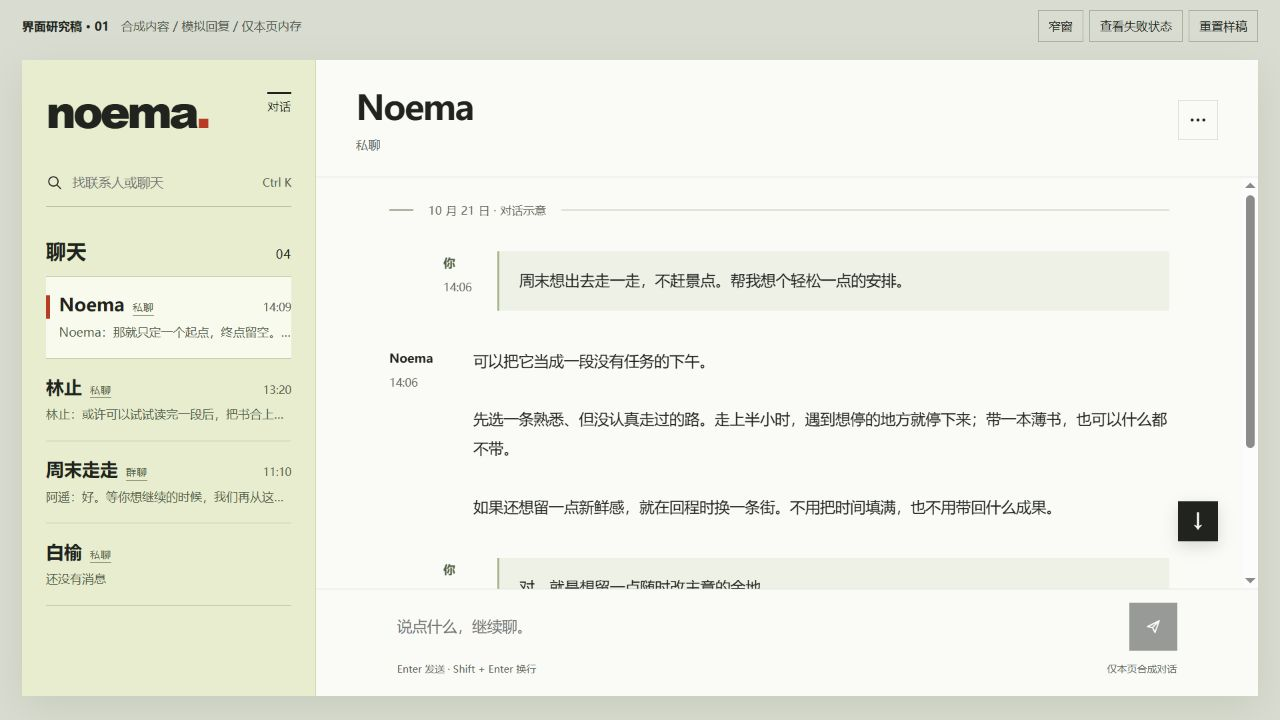
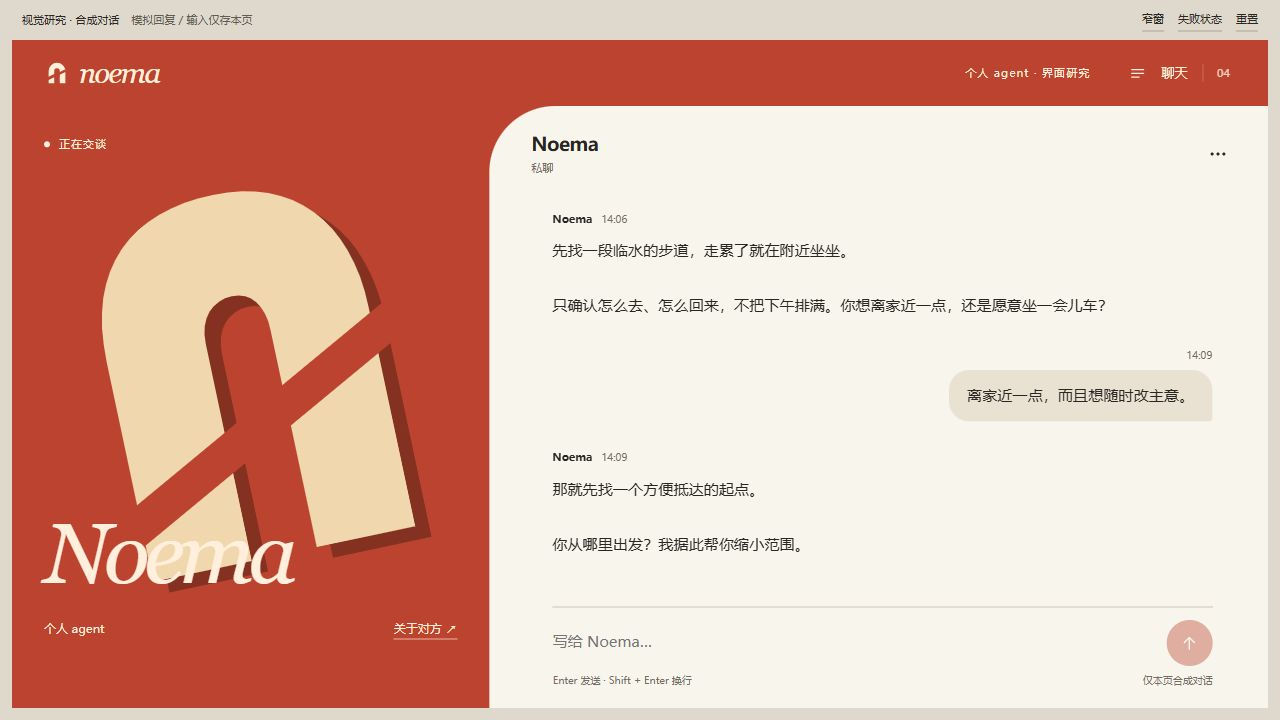
Recompose chat study around identity and folded graphics

diff --git a/docs/design/prototypes/conversation-study.html b/docs/design/prototypes/conversation-study.html
@@ -3,71 +3,56 @@
 <head>
 <meta charset="utf-8">
 <meta name="viewport" content="width=device-width,initial-scale=1">
-<title>Noema · 通信界面研究稿</title>
+<title>Noema · 交谈界面研究</title>
 <style>
-:root{color-scheme:light;--ink:#20231e;--muted:#62675c;--line:#d9ddd1;--ground:#fafbf7;--index:#e7edce;--accent:#b83c23;--quiet:#eef1e6;--focus:#a3301d}
-*{box-sizing:border-box}body{margin:0;background:#d9ddd1;color:var(--ink);font-family:"Segoe UI Variable Text","Microsoft YaHei UI","Microsoft YaHei",sans-serif;font-size:15px}button,input,textarea,select{font:inherit;color:inherit}button{cursor:pointer}button:disabled{cursor:default;opacity:.45}button:focus-visible,input:focus-visible,textarea:focus-visible,select:focus-visible,summary:focus-visible{outline:3px solid var(--focus);outline-offset:3px}button{touch-action:manipulation}svg{width:20px;height:20px;fill:none;stroke:currentColor;stroke-width:1.6;stroke-linecap:round;stroke-linejoin:round;flex:none}[hidden]{display:none!important}
-.review-bar{min-height:52px;max-width:1360px;margin:auto;padding:10px 22px;display:flex;align-items:center;justify-content:space-between;gap:16px;font-size:12px}.review-bar strong{font-weight:650}.review-bar span{color:#515749;margin-left:12px}.review-actions{display:flex;gap:6px;flex-wrap:wrap}.review-actions button{border:1px solid #9da58f;background:transparent;min-height:32px;padding:4px 10px}.review-actions button[aria-pressed=true]{background:var(--ink);color:white}
-.preview-stage{width:calc(100% - 44px);max-width:1316px;margin:8px auto 20px;transition:width 180ms ease}.preview-stage.is-narrow{width:min(440px,calc(100% - 24px))}.app-frame{container-type:inline-size;height:calc(100dvh - 84px);min-height:430px;background:var(--ground);box-shadow:0 12px 40px #252d151a}.workspace{height:100%;display:grid;grid-template-columns:294px minmax(0,1fr);position:relative;overflow:hidden}
-.sidebar{display:flex;flex-direction:column;background:var(--index);padding:28px 24px 24px;min-height:0;border-right:1px solid #cdd4b6}.brand{display:flex;align-items:flex-start;justify-content:space-between;margin-bottom:30px}.wordmark{font-family:Arial,sans-serif;font-size:45px;line-height:1;letter-spacing:-3px;font-weight:800}.brand-dot{color:var(--accent)}.edition{font-size:11px;border-top:2px solid var(--ink);padding-top:5px;letter-spacing:.08em;margin-top:4px}
-.search{display:flex;align-items:center;gap:9px;border-bottom:1px solid #aeb79b;padding:8px 0 12px}.search svg{width:17px;height:17px}.search input{width:100%;min-width:0;background:none;border:0;outline-offset:5px;font-size:13px;padding:3px 0}.search kbd{font-size:11px;font-family:inherit;white-space:nowrap;color:#566048}
-.index-label{display:flex;justify-content:space-between;align-items:baseline;margin:32px 0 12px;font-size:12px;letter-spacing:.06em}.index-label strong{font-size:20px;font-weight:550;letter-spacing:.02em}.room-list{overflow:auto;margin:0 -8px;padding:0 8px;min-height:0}.room{display:block;width:100%;text-align:left;border:0;border-top:1px solid #bdc6aa;background:transparent;padding:17px 0;position:relative}.room:last-child{border-bottom:1px solid #bdc6aa}.room:hover{background:#ffffff40}.room[aria-current=page]{padding-left:13px;background:#f8faee}.room[aria-current=page]:before{content:"";position:absolute;left:0;top:19px;width:4px;height:23px;background:var(--accent)}.room-top{display:flex;align-items:baseline;gap:8px}.room-name{font-size:18px;font-weight:600;overflow:hidden;text-overflow:ellipsis;white-space:nowrap}.room-time{margin-left:auto;font-size:11px;white-space:nowrap;color:#58614e}.room-description{display:block;font-size:12px;margin:7px 0 0;color:#535c48;white-space:nowrap;overflow:hidden;text-overflow:ellipsis;line-height:1.5}.draft-label{color:var(--accent);font-weight:650}.room-kind{font-size:10px;letter-spacing:.06em;border-bottom:1px solid #7a8468;padding-bottom:1px;color:#536044}.index-empty{font-size:13px;line-height:1.8;color:#536044}.sidebar-foot{margin-top:auto;padding-top:28px;display:flex;justify-content:space-between;gap:10px;font-size:11px;color:#59624d}.sidebar-foot b{font-weight:500;letter-spacing:.05em}
-.conversation{display:grid;grid-template-rows:auto minmax(0,1fr) auto;min-height:0;min-width:0;background:var(--ground);position:relative}.conversation-head{display:flex;align-items:center;justify-content:space-between;gap:20px;padding:28px 40px 24px;border-bottom:1px solid var(--line)}.title-row{display:flex;align-items:center;gap:12px;min-width:0}.room-title{font-size:34px;line-height:1.15;letter-spacing:-.04em;font-weight:560;margin:0;overflow:hidden;text-overflow:ellipsis;white-space:nowrap}.room-subtitle{font-size:12px;color:var(--muted);margin:10px 0 0;letter-spacing:.03em}.head-actions{display:flex;align-items:center;gap:12px}.room-type{font-size:11px;border-bottom:1px solid #b6bca9;padding-bottom:5px;white-space:nowrap}.icon-button{display:inline-flex;align-items:center;justify-content:center;width:40px;height:40px;background:transparent;border:1px solid var(--line);flex:none}.icon-button:hover{background:var(--quiet)}.back{display:none}
-.history{min-height:0;overflow:auto;scrollbar-gutter:stable;padding:26px 40px 12px;overscroll-behavior:contain}.history-inner{max-width:780px;margin:auto}.day-divider{display:flex;align-items:center;gap:15px;font-size:11px;color:var(--muted);letter-spacing:.04em;margin:0 0 34px}.day-divider:before{content:"";width:24px;height:1px;background:#959e86}.day-divider:after{content:"";flex:1;height:1px;background:var(--line)}.message{display:grid;grid-template-columns:64px minmax(0,1fr);gap:20px;margin:0 0 36px;min-width:0}.message-gutter{padding-top:3px;font-size:11px;line-height:1.5;color:var(--muted);min-width:0}.sender{font-weight:650;display:block;white-space:nowrap;overflow:hidden;text-overflow:ellipsis;color:var(--ink);font-size:12px}.message time{display:block;margin-top:7px;font-variant-numeric:tabular-nums;font-size:11px}.message-body{min-width:0;position:relative}.message-copy{font-size:15px;line-height:1.95;white-space:pre-wrap;overflow-wrap:anywhere;letter-spacing:.005em}.message.is-user{margin-left:54px;grid-template-columns:34px minmax(0,1fr)}.is-user .message-copy{background:var(--quiet);padding:15px 20px;border-left:2px solid #a8b58e}.is-user .sender{color:#536144}.message-actions{position:absolute;right:0;bottom:-32px;display:flex;gap:15px;justify-content:flex-end;opacity:0;transition:opacity 120ms}.message:hover .message-actions,.message:focus-within .message-actions{opacity:1}.text-action{background:none;border:0;padding:5px 2px;min-height:30px;font-size:11px;color:var(--muted);text-decoration:underline;text-underline-offset:4px}.text-action:hover{color:var(--accent)}.quote{font-size:12px;line-height:1.65;border-left:2px solid #a4ad96;margin-bottom:10px;padding:4px 12px;color:var(--muted);max-height:70px;overflow:hidden}.quote b{display:block;font-weight:600}.message-state{display:flex;gap:12px;align-items:center;margin-top:12px;font-size:12px;color:var(--muted);line-height:1.6}.message-state.is-error{color:#a52c1b}.message-state .text-action{color:inherit;font-size:12px}.streaming:after{content:"";display:inline-block;width:6px;height:16px;background:var(--accent);margin-left:5px;vertical-align:-2px;animation:pulse 1s infinite}.empty-state{padding:65px 0;max-width:440px;margin:auto}.empty-state .empty-name{font-size:45px;font-weight:500;letter-spacing:-.04em;margin:0 0 25px}.empty-state p{font-size:14px;color:var(--muted);line-height:1.9;margin:0}.new-messages{position:absolute;right:40px;bottom:155px;background:var(--ink);color:white;border:0;padding:0;width:40px;height:40px;font-size:20px;box-shadow:0 5px 15px #0002}
-.composer-area{padding:12px 40px 21px;background:var(--ground);border-top:1px solid var(--line)}.composer-wrap{max-width:780px;margin:auto}.replying{display:flex;gap:12px;align-items:center;border-left:2px solid var(--accent);padding:6px 0 6px 13px;margin-bottom:12px;font-size:12px;line-height:1.6}.replying-text{min-width:0;flex:1;white-space:nowrap;overflow:hidden;text-overflow:ellipsis;color:var(--muted)}.replying-text strong{color:var(--ink);display:block}.replying .icon-button{width:32px;height:32px;border:0}.compose-row{display:flex;gap:18px;align-items:flex-end}.compose-row textarea{resize:none;flex:1;min-width:0;max-height:160px;min-height:52px;background:transparent;border:0;padding:12px 0;font-size:15px;line-height:1.8;outline-offset:5px}.send-button{width:48px;height:48px;display:flex;align-items:center;justify-content:center;background:var(--ink);color:var(--ground);border:0;flex:none;margin-bottom:3px}.send-button:hover:not(:disabled){background:var(--accent)}.send-button.is-stop{background:var(--accent)}.stop-shape{display:block;width:13px;height:13px;background:currentColor}.composer-foot{display:flex;justify-content:space-between;align-items:center;gap:10px;padding-top:9px;font-size:10px;color:var(--muted)}.recipient{display:flex;align-items:center;gap:8px;font-size:11px}.recipient select{background:transparent;border:0;border-bottom:1px solid #acb59c;padding:2px 16px 3px 0;font-size:11px}.notice{font-size:12px;padding:9px 0;color:var(--accent);line-height:1.6}.visually-hidden{position:absolute;width:1px;height:1px;overflow:hidden;clip-path:inset(50%);white-space:nowrap}
-.workspace:has(.details-panel:not([hidden])):before{content:"";position:absolute;inset:0;z-index:2;background:#20231e1f}.details-panel{position:absolute;right:0;top:0;bottom:0;width:min(330px,100%);background:var(--ground);border-left:1px solid var(--line);padding:28px 25px;z-index:3;box-shadow:-20px 0 45px #2233110c;overflow:auto}.details-heading{display:flex;align-items:center;justify-content:space-between;gap:12px;margin-bottom:34px}.details-heading h2{font-size:20px;font-weight:550;margin:0}.details-panel p{font-size:13px;line-height:1.9;color:var(--muted)}.person{padding:18px 0;border-top:1px solid var(--line);font-size:15px}.person small{display:block;font-size:11px;margin-top:7px;color:var(--muted)}
-@keyframes pulse{50%{opacity:.25}}
-@container (max-width:760px){.workspace{grid-template-columns:1fr}.workspace[data-view=chat] .sidebar{display:none}.workspace[data-view=list] .conversation{display:none}.sidebar{padding:28px;border:0}.room{padding-top:20px;padding-bottom:20px}.conversation-head{padding:24px 20px 21px;gap:12px}.title-row{gap:12px}.room-title{font-size:28px}.back{display:inline-flex;border:0;width:28px;height:40px;margin-left:-6px}.room-type{display:none}.head-actions{gap:0}.history{padding:24px 20px 10px}.message{grid-template-columns:54px minmax(0,1fr);gap:12px;margin-bottom:38px}.message.is-user{margin-left:22px;grid-template-columns:28px minmax(0,1fr)}.message-copy{font-size:15px;line-height:1.85}.is-user .message-copy{padding:12px 15px}.composer-area{padding:11px 20px 18px}.composer-foot{font-size:11px}.compose-row{gap:12px}.compose-row textarea{font-size:15px}.send-button{width:44px;height:44px}.new-messages{right:20px;bottom:150px}.day-divider{margin-bottom:28px}.room-subtitle{margin-top:8px}.details-panel{width:100%}}
-@media(max-width:650px){.review-bar{padding:8px 12px;gap:8px}.review-bar span{display:none}.review-actions{gap:4px}.review-actions button{font-size:10px;padding:4px 6px}.preview-stage{width:calc(100% - 24px);margin-top:0}.app-frame{height:calc(100dvh - 68px);min-height:390px}}
-@media(hover:none){.message{margin-bottom:48px}.message-actions{opacity:1}.text-action{min-height:40px}.icon-button{min-height:44px}}
+:root{color-scheme:light;--ink:#292521;--muted:#736c63;--line:#ded9cf;--ground:#f8f5ed;--accent:#b63c28;--quiet:#eee9dd;--focus:#213fd4;--clay:#bc432f;--cream:#f1d7ad}
+*{box-sizing:border-box}[hidden]{display:none!important}body{height:100dvh;display:flex;flex-direction:column;margin:0;background:#ded8cd;color:var(--ink);font:15px/1.5 "Segoe UI Variable Text","Microsoft YaHei UI",sans-serif}button,input,textarea,select{font:inherit;color:inherit}button{cursor:pointer;touch-action:manipulation}button:disabled{opacity:.4;cursor:default}button:focus-visible,input:focus-visible,textarea:focus-visible,select:focus-visible{outline:3px solid var(--focus);outline-offset:4px}svg{width:20px;height:20px;fill:none;stroke:currentColor;stroke-width:1.6;stroke-linecap:round;stroke-linejoin:round;flex:none}button{background:none;border:0}button:hover:not(:disabled){filter:brightness(.9)}
+.review-bar{flex:0 0 40px;height:40px;display:flex;align-items:center;justify-content:space-between;gap:12px;padding:0 22px;font-size:11px}.review-bar strong{font-weight:500}.review-bar span{margin-left:12px;color:#625b51}.review-actions{display:flex;gap:14px}.review-actions button{padding:3px 0;border-bottom:1px solid #958a78;font-size:11px}.review-actions button[aria-pressed=true]{color:var(--accent);border-color:currentColor}.preview-stage{flex:1;min-height:0;width:calc(100% - 24px);max-width:1600px;margin:0 auto 12px}.preview-stage.is-narrow{width:min(430px,calc(100% - 24px))}.app-frame{container-type:inline-size;height:100%;background:var(--clay)}
+.workspace{position:relative;isolation:isolate;height:100%;display:grid;grid-template-columns:minmax(280px,.38fr) minmax(0,.62fr);grid-template-rows:66px minmax(0,1fr);overflow:hidden}.masthead{grid-column:1/-1;display:flex;align-items:center;justify-content:space-between;padding:0 32px;color:#fff0dc;z-index:2}.brand{display:flex;align-items:center;gap:9px}.brand-symbol{width:26px;height:26px;fill:currentColor;stroke:none}.brand-name{font:italic 29px Georgia,serif;letter-spacing:-1.6px}.list-trigger{min-height:42px;display:flex;gap:15px;align-items:center;font-size:13px;color:inherit}.list-trigger .count{font-size:11px;opacity:.8;border-left:1px solid #f1d7ad88;padding-left:14px}.list-trigger svg{width:18px}.masthead-note{font-size:11px;color:#ffefdc;letter-spacing:.1em;margin-left:auto;margin-right:32px}
+.identity{position:relative;min-width:0;overflow:hidden;display:flex;flex-direction:column;justify-content:space-between;padding:30px 32px 32px;color:#ffefdc}.identity-kicker{display:flex;align-items:center;gap:9px;font-size:11px;letter-spacing:.09em}.identity-kicker:before{content:"";width:6px;height:6px;background:currentColor;border-radius:50%}.portrait{width:calc(100% + 70px);height:calc(100% - 110px);position:absolute;top:45px;left:-35px;pointer-events:none;overflow:visible;stroke:none;fill:none}.portrait .ribbon{fill:var(--cream)}.portrait .underside{fill:#843121}.portrait .cut{fill:var(--clay)}.identity-name{font:italic clamp(54px,6.8cqw,102px)/1 Georgia,"STSong","SimSun",serif;letter-spacing:-.065em;overflow-wrap:anywhere;margin:0 0 16px;position:relative}.identity-kind{font-size:12px;display:flex;justify-content:space-between;align-items:center;color:#ffefdc}.identity-kind button{color:inherit;padding:4px 0;text-decoration:underline;text-underline-offset:5px;min-height:32px;font-size:12px}.identity-bottom{position:relative}.identity-state{font-size:12px;letter-spacing:0;padding-top:12px;min-height:31px;color:#ffefdc}.identity[data-streaming=true] .portrait{animation:reply-mark 2s ease-in-out infinite}.identity[data-streaming=true] .identity-kicker:before{animation:blink 1s ease-in-out infinite}
+.conversation{background:var(--ground);border-radius:66px 0 0 0;display:grid;grid-template-rows:auto minmax(0,1fr) auto;position:relative;min-width:0;min-height:0}.conversation-head{padding:26px 30px 16px 42px;display:flex;align-items:center;justify-content:space-between;gap:15px}.title-row{min-width:0}.room-title{font-size:19px;font-weight:600;letter-spacing:-.025em;line-height:1.2;margin:0;overflow:hidden;white-space:nowrap;text-overflow:ellipsis}.room-subtitle{font-size:11px;color:var(--muted);margin:5px 0 0}.icon-button{width:40px;height:40px;display:inline-flex;align-items:center;justify-content:center;flex:none;border-radius:50%}.icon-button:hover{background:#e9e4d8}.history{overflow:auto;overscroll-behavior:contain;min-height:0;padding:12px 34px 20px 42px;scrollbar-width:thin;scrollbar-color:#c9c0af transparent}.history-inner{max-width:660px;margin:0 auto}.day-divider{text-align:center;font-size:10px;color:var(--muted);margin:0 0 28px;letter-spacing:.06em}.message{position:relative;margin:0 0 28px;padding:0;min-width:0}.message-gutter{display:flex;align-items:baseline;gap:9px;font-size:10px;line-height:1.5;color:var(--muted);margin-bottom:9px}.sender{font-weight:650;font-size:11px;color:var(--ink)}.message time{font-variant-numeric:tabular-nums}.message-body{position:relative;min-width:0}.message-copy{font-size:15px;line-height:1.85;white-space:pre-wrap;overflow-wrap:anywhere;letter-spacing:.01em}.message.is-user{margin-left:48px;display:flex;flex-direction:column;align-items:flex-end}.is-user .message-gutter{justify-content:flex-end;margin-bottom:7px}.is-user .message-body{max-width:100%}.is-user .message-copy{background:#e9e2d3;padding:12px 18px;border-radius:20px 20px 3px 20px}.is-user .sender{display:none}.message-actions{position:absolute;right:0;bottom:-26px;display:flex;gap:15px;opacity:0}.message:hover .message-actions,.message:focus-within .message-actions{opacity:1}.text-action{font-size:11px;padding:3px 0;min-height:26px;color:var(--muted);text-decoration:underline;text-underline-offset:4px}.quote{border-left:2px solid #b7ac96;font-size:12px;line-height:1.6;color:var(--muted);padding:4px 12px;margin-bottom:10px;max-height:70px;overflow:hidden}.quote b{display:block}.message-state{margin-top:10px;font-size:12px;line-height:1.6;display:flex;gap:12px;align-items:center;color:var(--muted)}.message-state.is-error{color:#a63323}.message-state .text-action{color:inherit}.streaming:after{content:"";display:inline-block;width:5px;height:14px;vertical-align:-2px;background:var(--clay);margin-left:4px;animation:blink 1s infinite}.empty-state{padding:50px 0 30px;max-width:380px}.empty-name{font-size:32px;font-weight:500;letter-spacing:-.05em;margin:0 0 20px}.empty-state p{font-size:14px;line-height:1.9;color:var(--muted)}.new-messages{position:absolute;bottom:147px;right:28px;border-radius:50%;width:38px;height:38px;background:var(--ink);color:#fff;font-size:20px;z-index:1}
+.composer-area{padding:0 34px 20px 42px}.composer-wrap{max-width:660px;margin:0 auto}.compose-row{border-top:1px solid #b7ac96;display:flex;gap:12px;align-items:flex-end;padding:13px 0 0}.compose-row textarea{resize:none;flex:1;min-width:0;min-height:45px;max-height:150px;background:none;border:0;padding:8px 0 10px;font-size:15px;line-height:1.7;outline-offset:3px}.send-button{width:46px;height:46px;display:flex;align-items:center;justify-content:center;border-radius:50%;background:var(--clay);color:#fff6e7;flex:none}.send-button.is-stop{background:var(--ink)}.stop-shape{width:12px;height:12px;background:currentColor}.composer-foot{display:flex;align-items:center;justify-content:space-between;gap:8px;font-size:10px;color:var(--muted);padding-top:7px}.recipient{font-size:11px;display:flex;gap:5px}.recipient select{border:0;border-bottom:1px solid #baae96;background:none;padding:0 12px 2px 0;font-size:11px}.replying{border-left:2px solid var(--clay);display:flex;align-items:center;gap:12px;padding:5px 0 5px 12px;margin-bottom:10px;font-size:12px}.replying-text{flex:1;min-width:0;overflow:hidden;white-space:nowrap;text-overflow:ellipsis;color:var(--muted)}.replying-text strong{display:block;color:var(--ink)}.notice{font-size:12px;color:var(--accent);padding:8px 0}.visually-hidden{position:absolute;width:1px;height:1px;overflow:hidden;clip-path:inset(50%);white-space:nowrap}
+.sidebar{display:none;position:absolute;inset:12px auto 12px 12px;width:min(390px,calc(100% - 24px));background:var(--ground);padding:28px;z-index:5;border-radius:8px 40px 8px 8px;flex-direction:column;min-height:0;box-shadow:12px 12px 0 #61271e33}.workspace[data-view=list]:before,.workspace:has(.details-panel:not([hidden])):before{content:"";position:absolute;inset:0;background:#35281d66;z-index:4}.workspace[data-view=list] .sidebar{display:flex}.index-heading{display:flex;align-items:center;justify-content:space-between;margin-bottom:28px}.index-heading h2{margin:0;font-size:25px;font-weight:500;letter-spacing:-.05em}.search{display:flex;align-items:center;gap:10px;border-bottom:1px solid #b8ad98;padding-bottom:11px}.search svg{width:17px}.search input{min-width:0;width:100%;background:none;border:0;padding:4px 0;font-size:13px}.search kbd{font:inherit;font-size:10px;color:var(--muted);white-space:nowrap}.index-label{display:flex;justify-content:space-between;margin:27px 0 12px;font-size:11px;color:var(--muted)}.room-list{overflow:auto;min-height:0}.room{display:block;width:100%;text-align:left;padding:18px 0;border-bottom:1px solid var(--line);position:relative}.room[aria-current=page]{color:var(--accent)}.room-top{display:flex;align-items:baseline;gap:9px}.room-name{font-size:20px;font-weight:500;white-space:nowrap;text-overflow:ellipsis;overflow:hidden}.room-kind{font-size:10px;color:var(--muted)}.room-time{font-size:10px;margin-left:auto;color:var(--muted);white-space:nowrap}.room-description{display:block;font-size:12px;color:var(--muted);margin-top:7px;overflow:hidden;text-overflow:ellipsis;white-space:nowrap}.draft-label{color:var(--accent)}.index-empty{font-size:13px;color:var(--muted);padding-top:20px}.index-foot{margin-top:auto;font-size:11px;color:var(--muted);padding-top:25px}
+.details-panel{position:absolute;right:0;top:0;bottom:0;width:min(350px,100%);background:var(--ground);border-left:1px solid var(--line);padding:28px;z-index:5;overflow:auto}.details-heading{display:flex;align-items:center;justify-content:space-between;margin-bottom:35px;gap:15px}.details-heading h2{font-size:22px;font-weight:500;margin:0}.details-panel p{font-size:13px;line-height:1.9;color:var(--muted)}.person{padding:20px 0;border-top:1px solid var(--line)}.person small{display:block;font-size:11px;color:var(--muted);margin-top:8px}
+@container(max-width:850px){.workspace{grid-template-columns:minmax(200px,.3fr) minmax(0,.7fr)}.identity{padding:26px 22px}.identity-name{font-size:54px}.conversation-head{padding-left:28px}.history{padding-left:28px;padding-right:25px}.composer-area{padding-left:28px;padding-right:25px}.masthead{padding:0 24px}.portrait{width:calc(100% + 30px);left:-15px}.masthead-note{display:none}}
+@container(max-width:620px){.workspace{grid-template-columns:1fr;grid-template-rows:60px minmax(0,1fr)}.identity{display:none}.masthead{padding:0 22px}.conversation{border-radius:38px 0 0 0}.conversation-head{padding:24px 20px 14px 25px}.title-row{display:grid;grid-template-columns:28px minmax(0,1fr);column-gap:10px;row-gap:4px}.title-row .portrait-mini{grid-row:1/3}.room-subtitle{margin:0;grid-column:2;line-height:1.4}.room-title{font-size:19px}.history{padding:10px 20px 20px 25px}.message.is-user{margin-left:25px}.message{margin-bottom:31px}.message-copy{font-size:15px;line-height:1.8}.composer-area{padding:0 20px 17px 25px}.composer-foot>span:first-child{display:none}.new-messages{right:20px;bottom:140px}.sidebar{inset:0;width:100%;border-radius:0;box-shadow:none}.identity-state{display:none}.details-panel{width:100%}.portrait-mini{display:block!important;width:28px;height:28px;stroke:none}.index-heading{margin-bottom:20px}}
+.portrait-mini{display:none;stroke:none}.portrait-mini .ribbon{fill:var(--clay)}.portrait-mini .underside{fill:#843121}.portrait-mini .cut{fill:var(--ground)}
+@media(max-width:650px){.review-bar{padding:0 12px;height:40px}.review-bar span{display:none}.review-actions{gap:10px}.review-actions button{font-size:10px}}
+@media(hover:none){.message-actions{opacity:1}.message{margin-bottom:44px}.text-action{min-height:36px}}
+@keyframes reply-mark{50%{transform:translateY(-5px) rotate(-2deg)}}@keyframes blink{50%{opacity:.35}}
 @media(prefers-reduced-motion:reduce){*,*:before,*:after{animation:none!important;transition:none!important;scroll-behavior:auto!important}}
 </style>
 </head>
+
 <body>
 <svg aria-hidden="true" style="display:none">
-<symbol id="icon-send" viewBox="0 0 24 24"><path d="m5 12 14-7-5 14-3-6-6-1Z"/><path d="m11 13 8-8"/></symbol>
+<symbol id="icon-send" viewBox="0 0 24 24"><path d="M12 19V5m-6 6 6-6 6 6"/></symbol>
 <symbol id="icon-search" viewBox="0 0 24 24"><circle cx="10.5" cy="10.5" r="6.5"/><path d="m16 16 4.5 4.5"/></symbol>
 <symbol id="icon-more" viewBox="0 0 24 24"><circle cx="5" cy="12" r="1"/><circle cx="12" cy="12" r="1"/><circle cx="19" cy="12" r="1"/></symbol>
-<symbol id="icon-back" viewBox="0 0 24 24"><path d="m14 5-7 7 7 7"/></symbol>
 <symbol id="icon-close" viewBox="0 0 24 24"><path d="m6 6 12 12M18 6 6 18"/></symbol>
+<symbol id="noema-mark" viewBox="0 0 24 28"><path d="M3 25v-3.5l6-3V25Zm12-9 6-3v12h-6ZM3 18V12a9 9 0 0 1 18 0v-2l-6 3v-1a3 3 0 0 0-6 0v3Z"/></symbol>
 </svg>
-<div class="review-bar">
-  <div><strong>界面研究稿 · 01</strong><span>合成内容 / 模拟回复 / 仅本页内存</span></div>
-  <div class="review-actions"><button id="narrow" aria-pressed="false">窄窗</button><button id="failure">查看失败状态</button><button id="reset">重置样稿</button></div>
-</div>
+<div class="review-bar"><div><strong>视觉研究 · 合成对话</strong><span>模拟回复 / 输入仅存本页</span></div><div class="review-actions"><button id="narrow" aria-pressed="false">窄窗</button><button id="failure">失败状态</button><button id="reset">重置</button></div></div>
 <div class="preview-stage" id="stage"><div class="app-frame"><main class="workspace" id="workspace" data-view="chat">
-  <aside class="sidebar" aria-label="聊天列表">
-    <div class="brand"><div class="wordmark" aria-label="Noema">noema<span class="brand-dot">.</span></div><span class="edition">对话</span></div>
-    <label class="search"><svg aria-hidden="true"><use href="#icon-search"/></svg><input id="search" type="search" placeholder="找联系人或聊天" aria-label="搜索聊天"><kbd>Ctrl K</kbd></label>
-    <div class="index-label"><strong>聊天</strong><span id="room-count"></span></div>
-    <nav class="room-list" id="rooms" aria-label="会话"></nav>
-  </aside>
-  <section class="conversation" aria-label="当前聊天">
-    <header class="conversation-head">
-      <div class="title-row"><button class="icon-button back" id="back" aria-label="返回聊天列表"><svg aria-hidden="true"><use href="#icon-back"/></svg></button><div><h1 class="room-title" id="room-title"></h1><p class="room-subtitle" id="room-subtitle"></p></div></div>
-      <div class="head-actions"><button class="icon-button" id="details" aria-label="查看聊天信息" aria-expanded="false"><svg aria-hidden="true"><use href="#icon-more"/></svg></button></div>
-    </header>
-    <div class="history" id="history" aria-label="聊天消息" tabindex="0"><div class="history-inner" id="messages"></div></div>
-    <button class="new-messages" id="new-messages" aria-label="回到最新消息" title="回到最新消息" hidden>↓</button>
-    <section class="composer-area" aria-label="写消息"><div class="composer-wrap">
-      <div class="replying" id="replying" hidden><div class="replying-text" id="replying-text"></div><button class="icon-button" id="cancel-reply" aria-label="取消回复引用"><svg aria-hidden="true"><use href="#icon-close"/></svg></button></div>
-      <div class="notice" id="notice" role="status" hidden></div>
-      <form id="composer"><div class="compose-row"><textarea id="draft" rows="1" aria-label="写消息" placeholder="说点什么，继续聊。"></textarea><button class="send-button" id="send" type="submit" aria-label="发送消息"><svg aria-hidden="true"><use href="#icon-send"/></svg></button></div></form>
-      <div class="composer-foot"><span>Enter 发送 · Shift + Enter 换行</span><label class="recipient" id="recipient" hidden>发送给 <select id="target" aria-label="选择本轮回应的 agent"></select></label><span id="draft-status">草稿仅在本页暂存</span></div>
-    </div></section>
-    <aside class="details-panel" id="details-panel" role="dialog" aria-modal="true" aria-label="聊天信息" hidden><div class="details-heading"><h2>聊天信息</h2><button class="icon-button" id="close-details" aria-label="关闭聊天信息"><svg aria-hidden="true"><use href="#icon-close"/></svg></button></div><div id="details-content"></div></aside>
-  </section>
-</main></div></div>
-<div role="status" id="announcer" class="visually-hidden"></div>
+<header class="masthead"><div class="brand" aria-label="Noema"><svg class="brand-symbol" aria-hidden="true"><use href="#noema-mark"/></svg><span class="brand-name">noema</span></div><span class="masthead-note">个人 agent · 界面研究</span><button class="list-trigger" id="back" title="聊天列表 · Ctrl K；上/下一段聊天 · Alt ↑/↓" aria-label="打开聊天列表" aria-expanded="false"><svg aria-hidden="true" viewBox="0 0 24 24"><path d="M4 7h16M4 12h16M4 17h10"/></svg>聊天<span class="count" id="quick-count">04</span></button></header>
+<section class="identity" id="identity" aria-label="当前交谈对象"><div class="identity-kicker">正在交谈</div>
+<svg id="portrait-art" class="portrait" viewBox="0 0 360 430" aria-hidden="true"><g transform="rotate(-12 180 215)"><path class="underside" d="M63 355V159C63 73 112 35 184 35s113 47 113 124v196h-88V161c0-22-10-36-27-36s-31 13-31 36v194Z" transform="translate(12 12)"/><path class="ribbon" d="M63 355V159C63 73 112 35 184 35s113 47 113 124v196h-88V161c0-22-10-36-27-36s-31 13-31 36v194Z"/><path class="cut" d="m45 296 266-139v36L45 332Z"/></g></svg>
+<div class="identity-bottom"><h2 class="identity-name" id="portrait-name">Noema</h2><div class="identity-kind"><span id="portrait-kind">个人 agent</span><button id="portrait-details">关于对方 ↗</button></div><div class="identity-state" id="identity-state"></div></div></section>
+<aside class="sidebar" aria-label="聊天列表" role="dialog" aria-modal="true"><div class="index-heading"><h2>聊天</h2><button class="icon-button" id="close-list" aria-label="关闭聊天列表"><svg aria-hidden="true"><use href="#icon-close"/></svg></button></div><label class="search"><svg aria-hidden="true"><use href="#icon-search"/></svg><input id="search" type="search" placeholder="找联系人或聊天" aria-label="搜索聊天"><kbd>Ctrl K</kbd></label><div class="index-label"><span>全部聊天</span><span id="room-count"></span></div><nav class="room-list" id="rooms" aria-label="会话"></nav><div class="index-foot">输入仅在本页保留，刷新后清空。</div></aside>
+<section class="conversation" aria-label="当前聊天"><header class="conversation-head"><div class="title-row"><svg class="portrait-mini" id="small-identity" viewBox="0 0 360 430" aria-hidden="true"></svg><h1 class="room-title" id="room-title"></h1><p class="room-subtitle" id="room-subtitle"></p></div><button class="icon-button" id="details" aria-label="查看聊天信息" aria-expanded="false"><svg aria-hidden="true"><use href="#icon-more"/></svg></button></header>
+<div class="history" id="history" aria-label="聊天消息" tabindex="0"><div class="history-inner" id="messages"></div></div><button class="new-messages" id="new-messages" aria-label="回到最新消息" hidden>↓</button>
+<section class="composer-area" aria-label="写消息"><div class="composer-wrap"><div class="replying" id="replying" hidden><div class="replying-text" id="replying-text"></div><button class="icon-button" id="cancel-reply" aria-label="取消回复引用"><svg aria-hidden="true"><use href="#icon-close"/></svg></button></div><div class="notice" id="notice" role="status" hidden></div><form id="composer"><div class="compose-row"><textarea id="draft" rows="1" aria-label="写消息" placeholder="写给 Noema…"></textarea><button class="send-button" id="send" type="submit" aria-label="发送消息"><svg aria-hidden="true"><use href="#icon-send"/></svg></button></div></form><div class="composer-foot"><span>Enter 发送 · Shift + Enter 换行</span><label class="recipient" id="recipient" hidden>回应者 <select id="target" aria-label="选择本轮回应的 agent"></select></label><span id="draft-status">草稿仅在本页暂存</span></div></div></section>
+<aside class="details-panel" id="details-panel" role="dialog" aria-modal="true" aria-label="聊天信息" hidden><div class="details-heading"><h2>聊天信息</h2><button class="icon-button" id="close-details" aria-label="关闭聊天信息"><svg aria-hidden="true"><use href="#icon-close"/></svg></button></div><div id="details-content"></div></aside></section>
+</main></div></div><div role="status" id="announcer" class="visually-hidden"></div>
 <template id="message-template"><article class="message"><div class="message-gutter"><span class="sender"></span><time></time></div><div class="message-body"><div class="quote" hidden></div><div class="message-copy"></div><div class="message-state" hidden></div><div class="message-actions"></div></div></article></template>
 <script>
 'use strict';
 const initialRooms=[
  {id:'noema',name:'Noema',kind:'私聊',subtitle:'私聊',people:['Noema'],messages:[
   {id:'m1',sender:'你',role:'user',time:'14:06',text:'周末想出去走一走，不赶景点。帮我想个轻松一点的安排。',status:'complete'},
-  {id:'m2',sender:'Noema',role:'assistant',time:'14:06',text:'可以把它当成一段没有任务的下午。\n\n先选一条熟悉、但没认真走过的路。走上半小时，遇到想停的地方就停下来；带一本薄书，也可以什么都不带。\n\n如果还想留一点新鲜感，就在回程时换一条街。不用把时间填满，也不用带回什么成果。',status:'complete'},
-  {id:'m3',sender:'你',role:'user',time:'14:09',text:'对，就是想留一点随时改主意的余地。',status:'complete'},
-  {id:'m4',sender:'Noema',role:'assistant',time:'14:09',text:'那就只定一个起点，终点留空。\n\n出门前看看天气和返程方式。剩下的，到了再说。',status:'complete'}
+  {id:'m2',sender:'Noema',role:'assistant',time:'14:06',text:'先找一段临水的步道，走累了就在附近坐坐。\n\n只确认怎么去、怎么回来，不把下午排满。你想离家近一点，还是愿意坐一会儿车？',status:'complete'},
+  {id:'m3',sender:'你',role:'user',time:'14:09',text:'离家近一点，而且想随时改主意。',status:'complete'},
+  {id:'m4',sender:'Noema',role:'assistant',time:'14:09',text:'那就先找一个方便抵达的起点。\n\n你从哪里出发？我据此帮你缩小范围。',status:'complete'}
  ]},
  {id:'lin',name:'林止',kind:'私聊',subtitle:'私聊',people:['林止'],messages:[
   {id:'l1',sender:'你',role:'user',time:'13:20',text:'最近读东西总想划线，最后却不记得真正留下了什么。',status:'complete'},
@@ -80,6 +65,12 @@ const initialRooms=[
  {id:'empty',name:'白榆',kind:'私聊',subtitle:'私聊',people:['白榆'],messages:[]}
 ];
 let rooms=structuredClone(initialRooms),active='noema';
+const noemaPortrait=document.querySelector('#portrait-art').innerHTML;
+const portraits={
+ lin:'<g transform="rotate(-12 180 215)"><path class="underside" d="M62 55h88v210h154v88H62Z" transform="translate(12 12)"/><path class="ribbon" d="M62 55h88v210h154v88H62Z"/><path class="cut" d="m45 296 266-139v36L45 332Z"/></g>',
+ walk:'<g transform="rotate(-12 180 215)"><circle class="underside" cx="151" cy="176" r="101"/><circle class="ribbon" cx="139" cy="164" r="101"/><circle class="underside" cx="227" cy="280" r="101"/><circle class="ribbon" cx="215" cy="268" r="101"/><path class="cut" d="m45 296 280-147v36L45 332Z"/></g>',
+ empty:'<g transform="rotate(-12 180 215)"><path class="underside" d="M50 65h145c88 0 88 140 0 140 100 0 100 150 0 150H50Z" transform="translate(12 12)"/><path class="ribbon" d="M50 65h145c88 0 88 140 0 140 100 0 100 150 0 150H50Z"/><path class="cut" d="m45 296 266-139v36L45 332Z"/></g>'
+};
 let drafts={},replyTargets={},targets={},positions={},following={},timers=new Map(),sequence=0;
 const $=id=>document.getElementById(id);
 const room=()=>rooms.find(item=>item.id===active);
@@ -91,7 +82,7 @@ function resizeDraft(){$('draft').style.height='auto';$('draft').style.height=Ma
 function renderRooms(){
  const query=$('search').value.trim().toLocaleLowerCase();
  const visible=rooms.filter(item=>(item.name+' '+item.messages.map(m=>m.text).join(' ')).toLocaleLowerCase().includes(query));
- $('room-count').textContent=String(visible.length).padStart(2,'0');
+ $('room-count').textContent=String(visible.length).padStart(2,'0');$('quick-count').textContent=String(rooms.length).padStart(2,'0');
  $('rooms').replaceChildren();
  for(const item of visible){
   const b=element('button','room');b.type='button';if(item.id===active)b.setAttribute('aria-current','page');
@@ -146,23 +137,26 @@ function syncComposer(){
  $('send').innerHTML=running?'<span class="stop-shape" aria-hidden="true"></span>':'<svg aria-hidden="true"><use href="#icon-send"/></svg>';
  const reply=replyTargets[active];$('replying').hidden=!reply;
  if(reply){$('replying-text').replaceChildren(element('strong','','回复 '+reply.sender),document.createTextNode(reply.text))}
+ $('identity').dataset.streaming=String(running);$('identity-state').textContent=running?'正在模拟回复…':'';
  $('draft-status').textContent=running?'正在模拟回复…':$('draft').value?'草稿仅在本页暂存':'仅本页合成对话';
 }
 function renderHeader(){
  $('room-title').textContent=room().name;$('room-subtitle').textContent=room().subtitle;
+ $('portrait-art').innerHTML=portraits[active]||noemaPortrait;$('portrait-name').textContent=room().name;$('small-identity').innerHTML=portraits[active]||noemaPortrait;$('portrait-kind').textContent=room().kind==='群聊'?'一起交谈':'个人 agent';$('draft').placeholder='写给 '+(targets[active]||room().people[0])+'…';
  $('draft').setAttribute('aria-label','给'+(targets[active]||room().people[0])+'写消息');
  $('recipient').hidden=room().kind!=='群聊';
  $('target').replaceChildren(...room().people.map(name=>{const option=element('option','',name);option.value=name;return option}));
  $('target').value=targets[active]||room().people[0];
  $('details-content').replaceChildren(element('p','',room().kind+' · '+room().name),...room().people.map(name=>{const p=element('div','person',name);p.append(element('small','','agent · 合成样例身份'));return p}),element('p','','此页是视觉与交互研究稿，不会连接模型或读取应用数据。'));
 }
-function setDetailsInert(value){document.querySelector('.sidebar').inert=value;document.querySelector('.review-bar').inert=value;for(const child of document.querySelector('.conversation').children){if(child.id!=='details-panel')child.inert=value}}
+function setDetailsInert(value){document.querySelector('.sidebar').inert=value;document.querySelector('.masthead').inert=value;document.querySelector('.identity').inert=value;document.querySelector('.review-bar').inert=value;for(const child of document.querySelector('.conversation').children){if(child.id!=='details-panel')child.inert=value}}
+let detailsOrigin='details';
 function closeDetails(){$('details-panel').hidden=true;$('details').setAttribute('aria-expanded','false');setDetailsInert(false)}
 function selectRoom(id){
  positions[active]=$('history').scrollTop;drafts[active]=$('draft').value;
  active=id;closeDetails();$('notice').hidden=true;
- $('workspace').dataset.view='chat';$('draft').value=drafts[id]||'';
- renderRooms();renderHeader();renderMessages({restore:true});resizeDraft();syncComposer();
+ closeList();$('draft').value=drafts[id]||'';
+ renderRooms();renderHeader();renderMessages({restore:true});resizeDraft();syncComposer();$('draft').focus();
 }
 function startReply(roomId,message){
  if(timers.has(roomId))return;
@@ -197,10 +191,14 @@ $('draft').addEventListener('keydown',event=>{if(event.key==='Enter'&&!event.shi
 $('search').addEventListener('input',renderRooms);
 $('target').addEventListener('change',()=>{targets[active]=$('target').value;renderHeader()});
 $('cancel-reply').addEventListener('click',()=>{replyTargets[active]=null;syncComposer();$('draft').focus()});
-$('back').addEventListener('click',()=>{$('workspace').dataset.view='list';$('search').focus()});
-$('details').addEventListener('click',()=>{$('details-panel').hidden=false;$('details').setAttribute('aria-expanded','true');setDetailsInert(true);$('close-details').focus()});
+function openList(){$('workspace').dataset.view='list';$('back').setAttribute('aria-expanded','true');document.querySelector('.conversation').inert=true;document.querySelector('.identity').inert=true;document.querySelector('.masthead').inert=true;document.querySelector('.review-bar').inert=true;$('search').focus()}
+function closeList(){$('workspace').dataset.view='chat';$('back').setAttribute('aria-expanded','false');document.querySelector('.conversation').inert=false;document.querySelector('.identity').inert=false;document.querySelector('.masthead').inert=false;document.querySelector('.review-bar').inert=false}
+$('back').addEventListener('click',openList);
+$('close-list').addEventListener('click',()=>{closeList();$('back').focus()});
+$('portrait-details').addEventListener('click',()=>{$('details').click();detailsOrigin='portrait-details'});
+$('details').addEventListener('click',()=>{detailsOrigin='details';$('details-panel').hidden=false;$('details').setAttribute('aria-expanded','true');setDetailsInert(true);$('close-details').focus()});
 $('details-panel').addEventListener('keydown',event=>{if(event.key==='Tab'){event.preventDefault();$('close-details').focus()}});
-$('close-details').addEventListener('click',()=>{closeDetails();$('details').focus()});
+$('close-details').addEventListener('click',()=>{closeDetails();$(detailsOrigin).focus()});
 $('new-messages').addEventListener('click',()=>{following[active]=true;$('history').scrollTop=$('history').scrollHeight;$('new-messages').hidden=true});
 $('history').addEventListener('scroll',()=>{following[active]=$('history').scrollHeight-$('history').clientHeight-$('history').scrollTop<32;$('new-messages').hidden=following[active]});
 $('narrow').addEventListener('click',()=>{const narrow=$('stage').classList.toggle('is-narrow');$('narrow').setAttribute('aria-pressed',String(narrow))});
@@ -211,13 +209,20 @@ $('failure').addEventListener('click',()=>{
 });
 $('reset').addEventListener('click',()=>{
  for(const run of timers.values())clearInterval(run.handle);timers.clear();
- rooms=structuredClone(initialRooms);drafts={};replyTargets={};targets={};positions={};following={};active='noema';$('search').value='';$('draft').value='';$('workspace').dataset.view='chat';closeDetails();renderRooms();renderHeader();renderMessages();resizeDraft();syncComposer();announce('样稿已重置，页面内输入已清空');
+ rooms=structuredClone(initialRooms);drafts={};replyTargets={};targets={};positions={};following={};active='noema';$('search').value='';$('draft').value='';closeList();closeDetails();renderRooms();renderHeader();renderMessages();resizeDraft();syncComposer();announce('样稿已重置，页面内输入已清空');
+});
+document.querySelector('.sidebar').addEventListener('keydown',event=>{
+ if(event.key!=='Tab')return;
+ const all=Array.from(document.querySelector('.sidebar').querySelectorAll('button,input')).filter(node=>!node.disabled);
+ const first=all[0],last=all.at(-1);
+ if(event.shiftKey&&document.activeElement===first){event.preventDefault();last.focus()}
+ else if(!event.shiftKey&&document.activeElement===last){event.preventDefault();first.focus()}
 });
 document.addEventListener('keydown',event=>{
  if(event.isComposing)return;
  if(!$('details-panel').hidden&&event.key!=='Escape')return;
- if((event.ctrlKey||event.metaKey)&&event.key.toLowerCase()==='k'){event.preventDefault();$('workspace').dataset.view='list';$('search').focus()}
- if(event.key==='Escape'){if(!$('details-panel').hidden){closeDetails();$('details').focus()}else{replyTargets[active]=null;syncComposer();$('draft').focus()}}
+ if((event.ctrlKey||event.metaKey)&&event.key.toLowerCase()==='k'){event.preventDefault();openList()}
+ if(event.key==='Escape'){if($('workspace').dataset.view==='list'){closeList();$('back').focus();return}if(!$('details-panel').hidden){closeDetails();$(detailsOrigin).focus()}else{replyTargets[active]=null;syncComposer();$('draft').focus()}}
  if(event.altKey&&(event.key==='ArrowUp'||event.key==='ArrowDown')){event.preventDefault();const index=rooms.findIndex(r=>r.id===active),next=(index+(event.key==='ArrowDown'?1:-1)+rooms.length)%rooms.length;selectRoom(rooms[next].id)}
 });
 window.addEventListener('pagehide',()=>{for(const run of timers.values())clearInterval(run.handle)});
